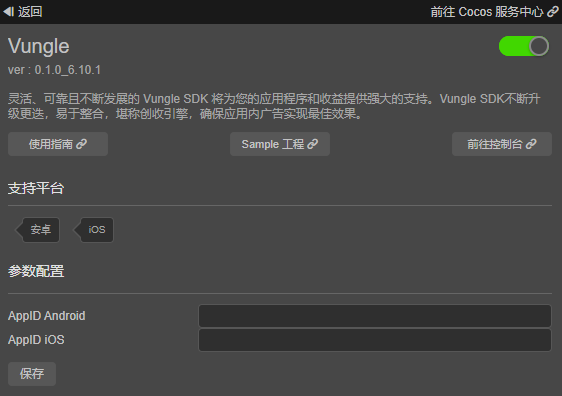
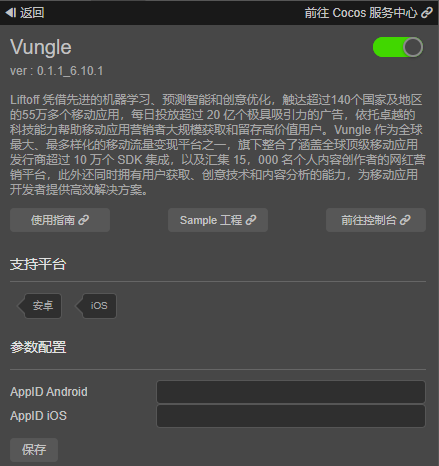
[vungle]update docs

diff --git a/zh/vunglead.md b/zh/vunglead.md
@@ -1,6 +1,6 @@
-# Vungle快速入门
+# [Vungle](https://vungle.com/) 快速入门
 
-[Vungle](https://vungle.com/) 
+[Vungle](https://vungle.com/) 凭借先进的机器学习、预测智能和创意优化，触达超过140个国家及地区的55万多个移动应用，每日投放超过 20 亿个极具吸引力的广告，依托卓越的科技能力帮助移动应用营销者大规模获取和留存高价值用户。Vungle 作为全球最大、最多样化的移动流量变现平台之一，旗下整合了涵盖全球顶级移动应用发行商超过 10 万个 SDK 集成，以及汇集 15,000 名个人内容创作者的网红营销平台，此外还同时拥有用户获取、创意技术和内容分析的能力，为移动应用开发者提供高效解决方案。
 
 ## 一键接入Vungle服务
 
@@ -13,7 +13,7 @@
 
   ![](vunglead/vunglead-panel.png)
 
-- 参数配置：参数配置中的appid需要您从Vungle服务后台获取。Vungle 聚合广告在 iOS 和 Android 平台上需要创建不同的 AppID，两者不能公用同一个 AppID。
+- 参数配置：参数配置中的appid需要您从[Vungle服务后台](https://publisher.vungle.com/applications) 获取。Vungle 聚合广告在 iOS 和 Android 平台上需要创建不同的 AppID，两者不能共用同一个 AppID。
 
 - 如果您还没有 Vungle 聚合广告平台的账号，请前往 [Vungle官网](https://app.vungle.com/signup/) 进行注册，在Vungle控制台中创建APP和广告位，详情可参考[Vungle文档](https://support.vungle.com/hc/en-us/articles/203610124) 。
 

diff --git a/en/vunglead.md b/en/vunglead.md
@@ -1,6 +1,6 @@
-# Vungle Quick Start
+# [Vungle](https://vungle.com/) Quick Start
 
-[Vungle](https://vungle.com/)
+Vungle’s best-in-class technology enables mobile app marketers to acquire and retain high value users at scale, by delivering more than two billion engaging ads each day across more than 500,000 mobile apps in more than 140 countries through advanced machine learning, prediction intelligence and creative optimization capabilities. Vungle operates one of the largest and most diverse mobile monetization platforms, with 100k+ direct SDK integrations across leading mobile app publishers and 15k individual content creators across its influencer marketing platform, in addition to a broad suite of capabilities across user acquisition, creative technologies, and content analytics.
 
 ### Enable Service
 
@@ -10,7 +10,7 @@
 
 ![](vunglead/vunglead-panel.png)
 
-- Get the appid from Vungle publisher center and fill in the corresponding configuration field.
+- Get the appid from [Vungle publisher center](https://publisher.vungle.com/applications) and fill in the corresponding configuration field.
 
 - If you do not have a Vungle account, please go to [Vungle](https://app.vungle.com/signup/) to register an account. Then create apps and placements. You can refer to the [Guide Document](https://support.vungle.com/hc/en-us/articles/203610124) .
 
